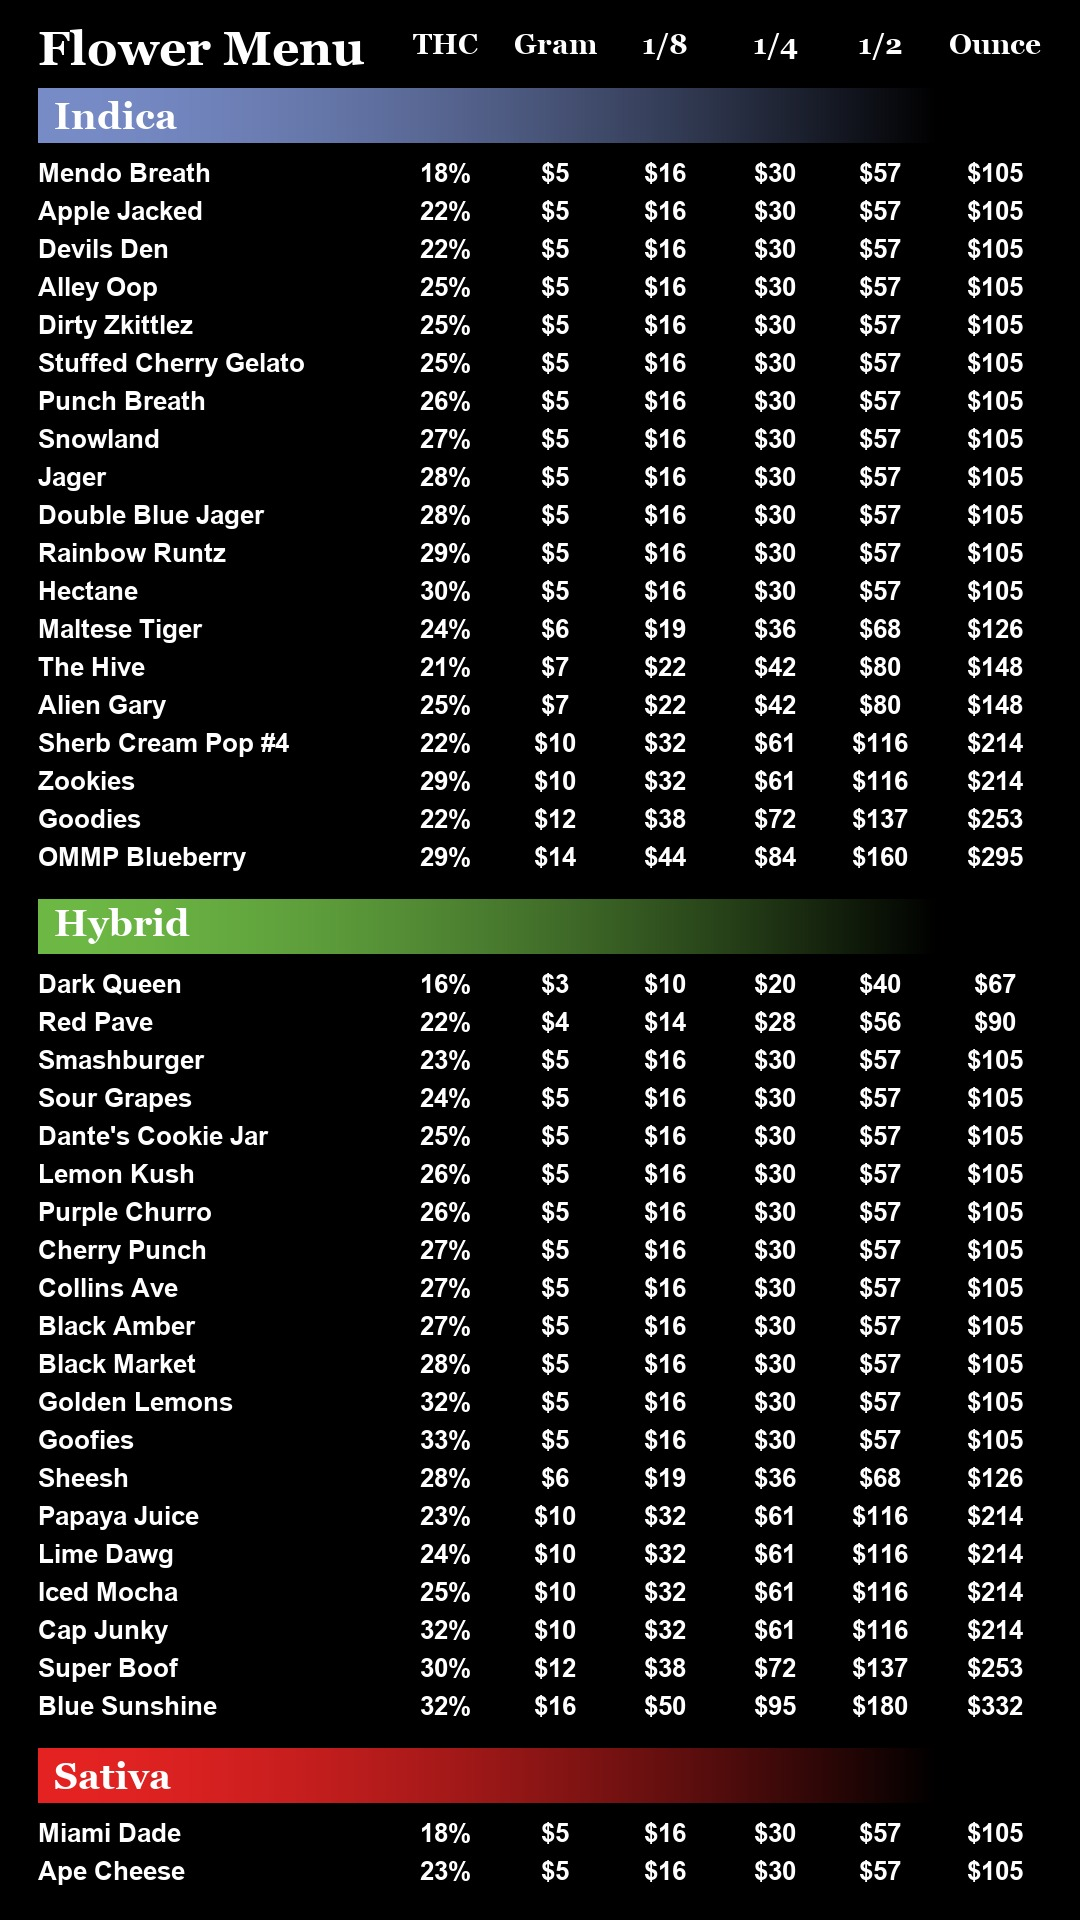
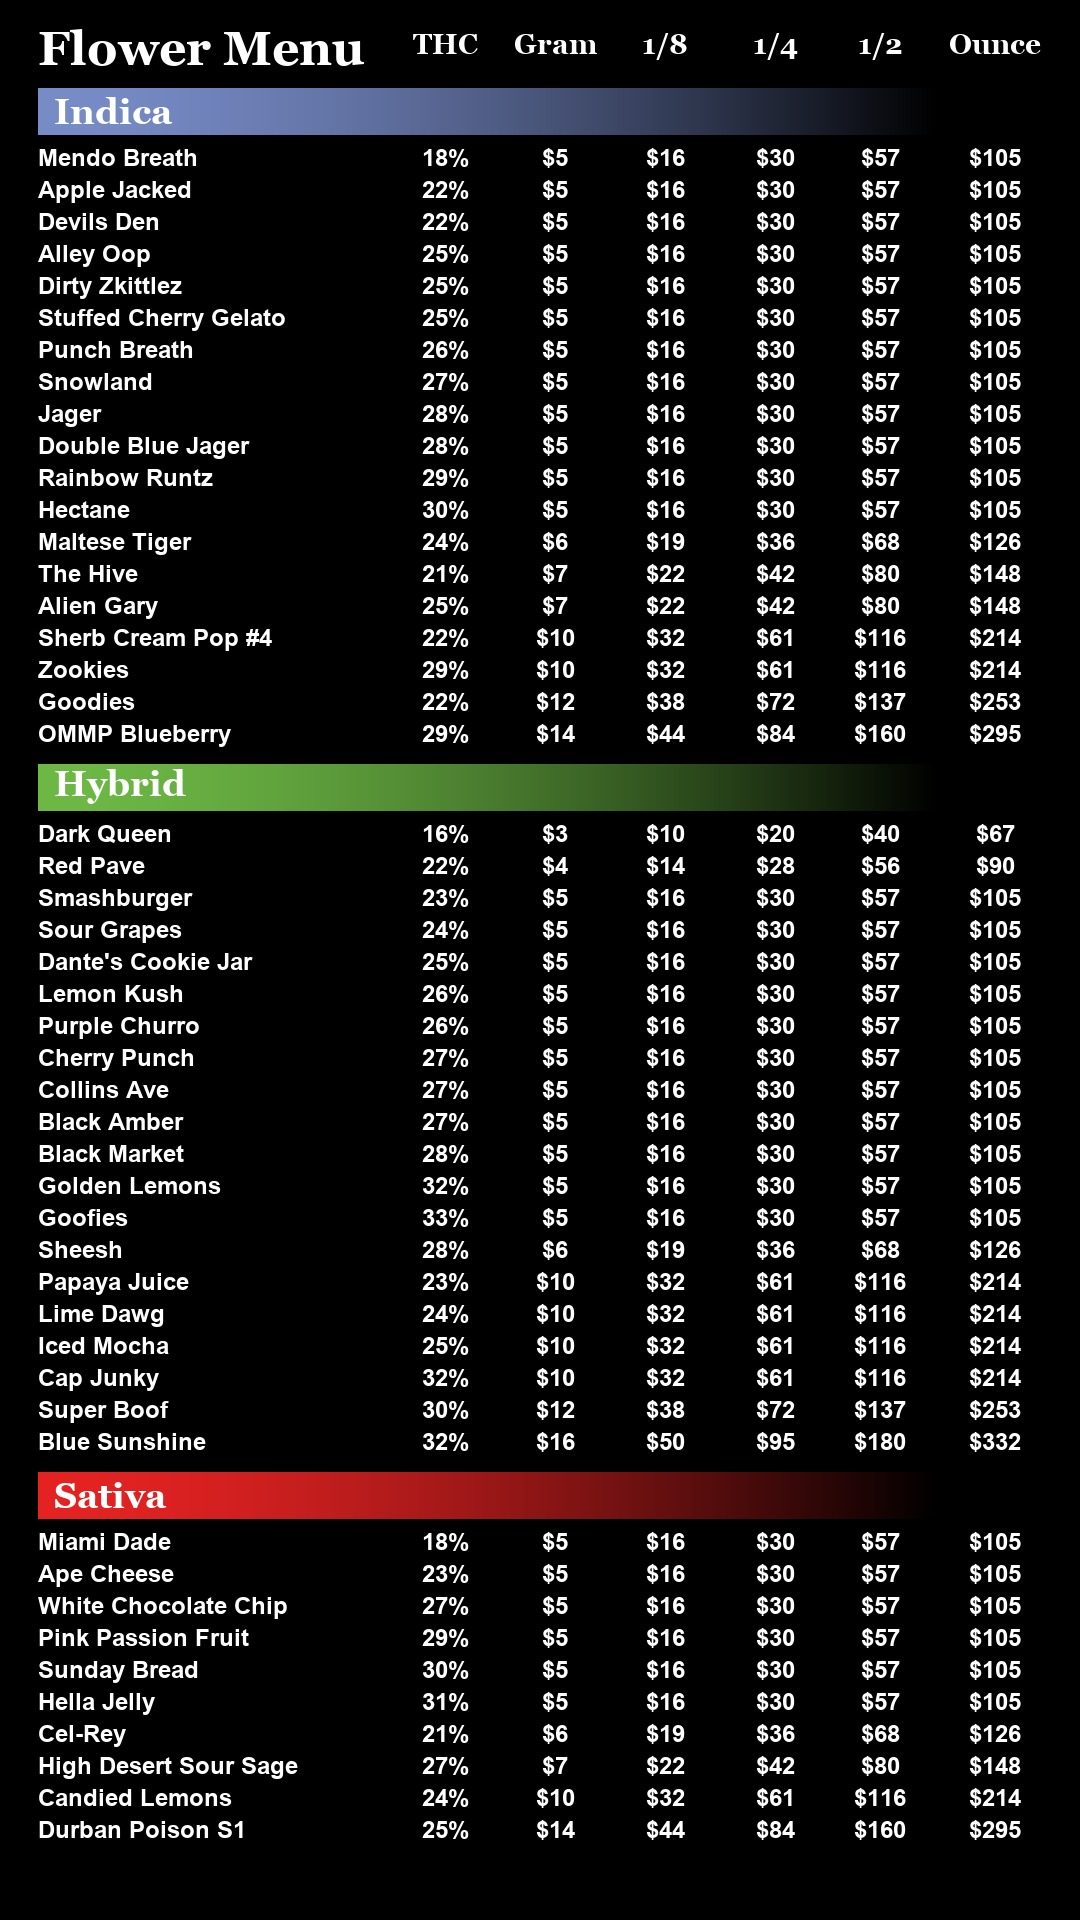
Update store menus 2026-09-04

Changed region(s): [[0.0306, 0.0312, 0.8556, 1.0], [0.8861, 0.0625, 0.9472, 1.0], [0.2139, 0.5625, 0.2444, 0.5938]]

diff --git a/docs/index.html b/docs/index.html
@@ -700,13 +700,21 @@
         const available = menuHeight - contentTop - bottomMargin;
         const groupCount = activeGroups.length;
         const rowCount = Math.max(rows.length, 1);
-        let rowHeight = 34;
-        for (let candidate = 54; candidate >= 34; candidate -= 1) {
+        let layout = null;
+        for (let candidate = 54; candidate >= 26; candidate -= 1) {
           if (totalVerticalUsage(candidate, groupCount, rowCount) <= available) {
-            rowHeight = candidate;
+            layout = {
+              rowHeight: candidate,
+              requiredHeight: totalVerticalUsage(candidate, groupCount, rowCount),
+              availableHeight: available,
+            };
             break;
           }
         }
+        if (!layout) {
+          throw new Error(`Flower menu overflow: ${rows.length} products cannot fit one screen.`);
+        }
+        const rowHeight = layout.rowHeight;
         const bodySize = clamp(Math.floor(rowHeight * 0.68), 24, 36);
         const { sectionHeight, gapAfterSection, gapBetweenGroups } = getSectionMetrics(rowHeight);
         const sectionSize = clamp(Math.floor(sectionHeight * 0.70), 32, 48);
@@ -760,6 +768,7 @@
         root.setProperty("--closeout-pill-text-size", `${closeoutPillTextSize}px`);
         root.setProperty("--closeout-leaf-size", `${closeoutLeafSize}px`);
         root.setProperty("--closeout-leaf-offset", `${closeoutLeafOffset}px`);
+        return layout;
       }
 
       function rowHtml(row) {
@@ -948,7 +957,7 @@
       function renderMenu(payload) {
         const rows = payload.rows || [];
         const activeGroups = sections.filter(([strain]) => rows.some((row) => row.strain === strain));
-        applyDynamicSizing(rows, activeGroups);
+        const layout = applyDynamicSizing(rows, activeGroups);
 
         const groups = document.getElementById("groups");
         groups.innerHTML = activeGroups.map(([strain, color]) => {
@@ -960,6 +969,15 @@
             </section>
           `;
         }).join("");
+        const renderedRowCount = groups.querySelectorAll(".row").length;
+        if (renderedRowCount !== rows.length || groups.offsetHeight > layout.availableHeight) {
+          throw new Error(
+            `Flower menu overflow: rendered ${renderedRowCount}/${rows.length} products ` +
+            `using ${groups.offsetHeight}/${layout.availableHeight}px.`
+          );
+        }
+        groups.dataset.rowCount = String(renderedRowCount);
+        groups.dataset.rowHeight = String(layout.rowHeight);
         animateAgedInventoryRows();
       }
 

diff --git a/scripts/flower_menu_layout.py b/scripts/flower_menu_layout.py
@@ -1,0 +1,71 @@
+"""Deterministic single-screen layout rules for the flower menu."""
+
+from __future__ import annotations
+
+from typing import Any, Dict
+
+
+MENU_HEIGHT = 1920
+CONTENT_TOP = 88
+BOTTOM_MARGIN = 48
+MAX_ROW_HEIGHT = 54
+MIN_ROW_HEIGHT = 26
+
+
+class FlowerMenuLayoutError(ValueError):
+    """Raised when the complete flower menu cannot fit on one screen."""
+
+
+def clamp(value: int, minimum: int, maximum: int) -> int:
+    return max(minimum, min(maximum, value))
+
+
+def section_metrics(row_height: int) -> Dict[str, int]:
+    return {
+        "section_height": clamp(int(row_height * 1.28), 46, 68),
+        "gap_after_section": clamp(int(row_height * 0.32), 10, 24),
+        "gap_between_groups": clamp(int(row_height * 0.40), 12, 30),
+    }
+
+
+def measure_flower_layout(
+    row_count: int,
+    group_count: int,
+    row_height: int,
+    *,
+    menu_height: int = MENU_HEIGHT,
+    content_top: int = CONTENT_TOP,
+    bottom_margin: int = BOTTOM_MARGIN,
+) -> Dict[str, Any]:
+    metrics = section_metrics(row_height)
+    available_height = menu_height - content_top - bottom_margin
+    required_height = (
+        row_count * row_height
+        + group_count * metrics["section_height"]
+        + group_count * metrics["gap_after_section"]
+        + max(group_count - 1, 0) * metrics["gap_between_groups"]
+    )
+    return {
+        "fits": required_height <= available_height,
+        "row_count": row_count,
+        "group_count": group_count,
+        "row_height": row_height,
+        "required_height": required_height,
+        "available_height": available_height,
+        **metrics,
+    }
+
+
+def select_flower_layout(row_count: int, group_count: int) -> Dict[str, Any]:
+    if row_count < 0 or group_count < 0:
+        raise FlowerMenuLayoutError("Flower menu counts cannot be negative.")
+    for row_height in range(MAX_ROW_HEIGHT, MIN_ROW_HEIGHT - 1, -1):
+        layout = measure_flower_layout(row_count, group_count, row_height)
+        if layout["fits"]:
+            return layout
+    smallest = measure_flower_layout(row_count, group_count, MIN_ROW_HEIGHT)
+    raise FlowerMenuLayoutError(
+        "Complete flower menu does not fit one 1080x1920 screen: "
+        f"requires {smallest['required_height']}px with "
+        f"{smallest['available_height']}px available."
+    )
